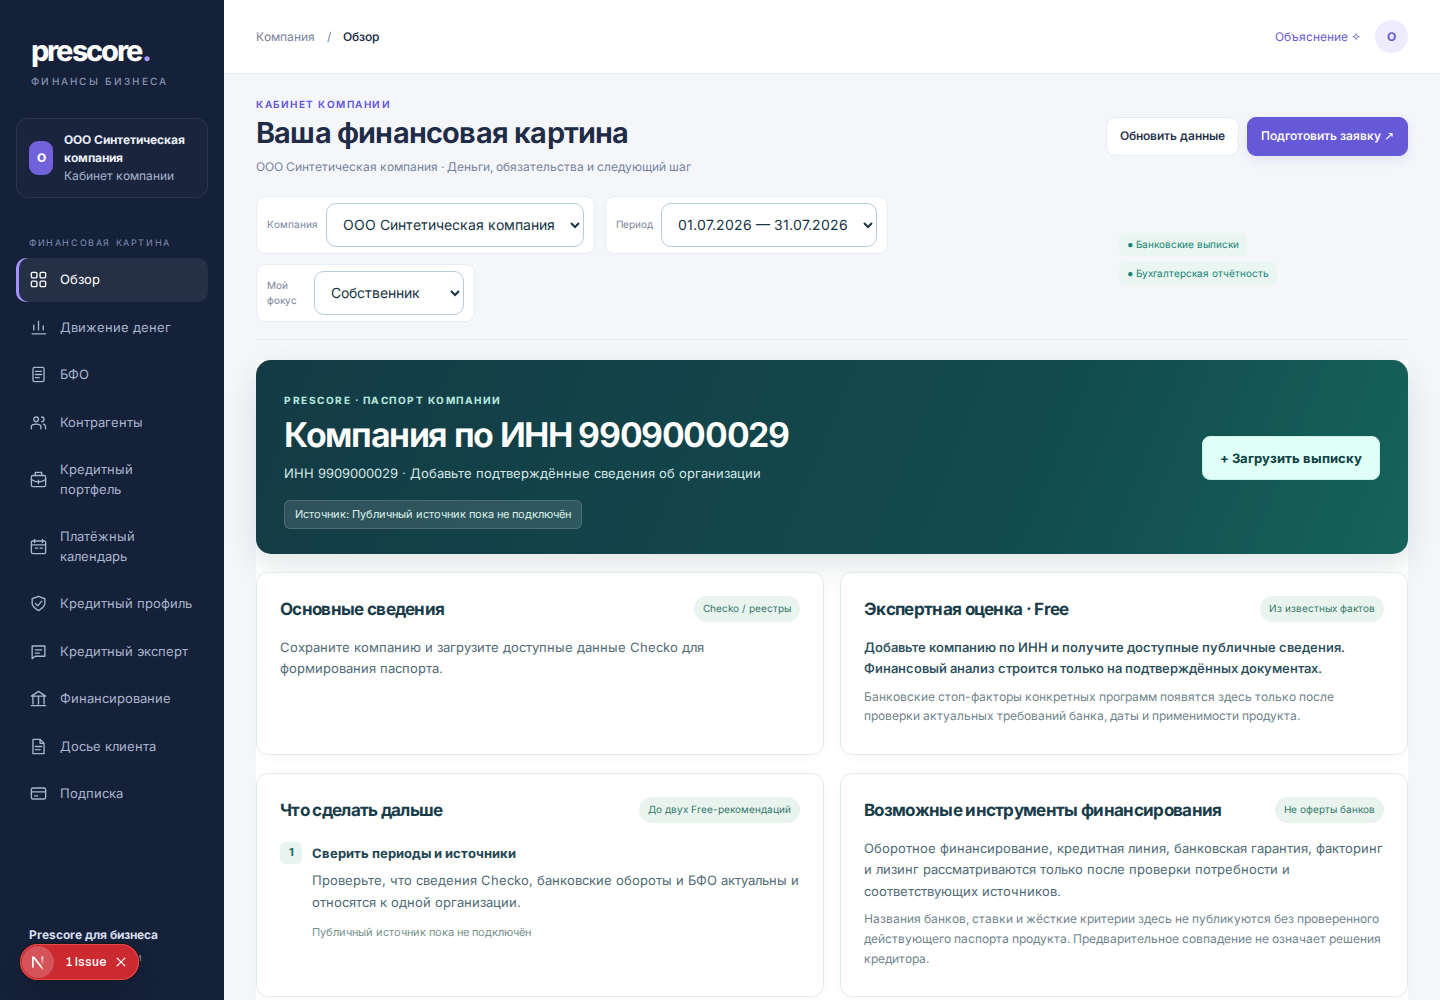
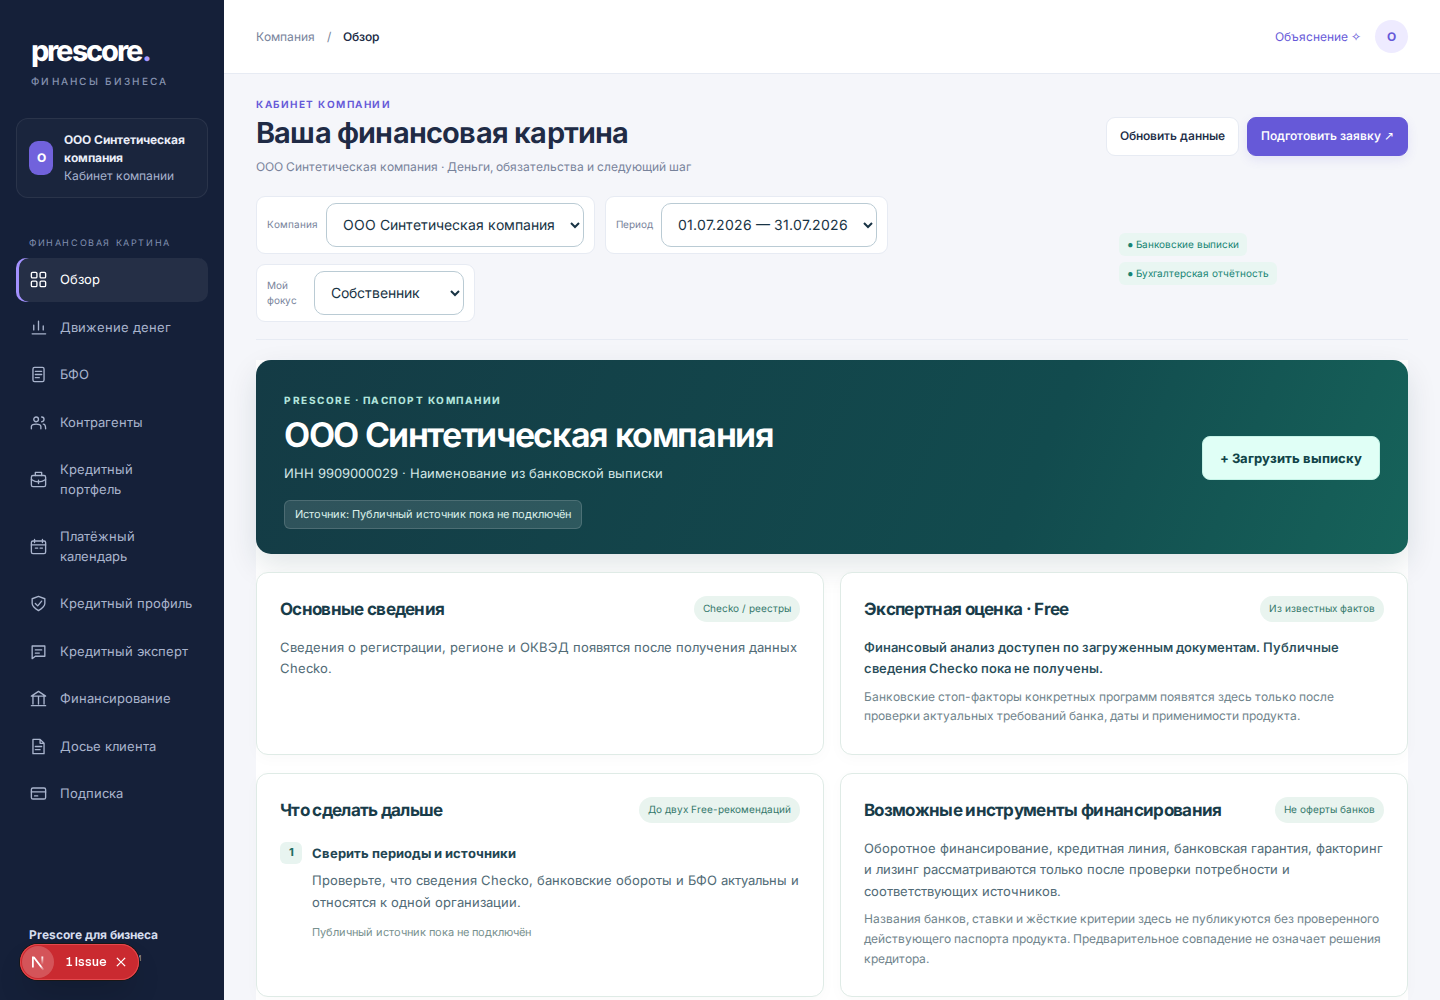
Show the saved statement identity in the dashboard passport [skip ci]

Changed region(s): [[0.1875, 0.403, 0.5625, 0.496], [0.5938, 0.62, 0.9375, 0.682], [0.1875, 0.62, 0.5312, 0.682]]

diff --git a/app/components/workspace/client-passport.tsx b/app/components/workspace/client-passport.tsx
@@ -5,16 +5,17 @@ import './client-passport.css';
 
 /** Existing dossier's public passport: no parallel profile, score or bank matcher. */
 export function CompanyPassport({
-  inn,profile,hasStatements,hasAnnual,full,onBankUpload,
+  inn,profile,hasStatements,hasAnnual,full,onBankUpload,dossier,
 }:{
   inn:string;
   profile:PassportPublicProfile|null;
+  dossier?:{statementCompanyName?:string};
   hasStatements:boolean;
   hasAnnual:boolean;
   full:boolean;
   onBankUpload:()=>void;
 }){
-  const passport=publicPassport(profile,inn,hasStatements,hasAnnual);
+  const passport=publicPassport(profile,inn,hasStatements,hasAnnual,dossier);
   const facts=[
     ['ОГРН',passport.company.ogrn],
     ['Дата регистрации',passport.company.registrationDate],
@@ -28,7 +29,7 @@ export function CompanyPassport({
       <div>
         <span className="pc-passport-eyebrow">PRESCORE · ПАСПОРТ КОМПАНИИ</span>
         <h2>{passport.company.title}</h2>
-        <p>ИНН {inn} · {profile?'Публичные сведения компании':'Добавьте подтверждённые сведения об организации'}</p>
+        <p>ИНН {inn} · {profile?'Публичные сведения компании':dossier?.statementCompanyName?'Наименование из банковской выписки':dossier?'Компания сохранена в досье':'Предварительный просмотр компании'}</p>
         <div className="pc-passport-tags">
           <span className="pc-passport-tag">Источник: {passport.source}</span>
           {passport.stale&&<span className="pc-passport-tag attention">Проверить актуальность сведений</span>}
@@ -41,7 +42,7 @@ export function CompanyPassport({
       <div className="pc-passport-section">
         <div className="pc-passport-section-title"><h3>Основные сведения</h3><span>Checko / реестры</span></div>
         {facts.length?<dl className="pc-passport-facts">{facts.map(([name,value])=><div key={name}><dt>{name}</dt><dd>{value}</dd></div>)}</dl>
-          :<p>Сохраните компанию и загрузите доступные данные Checko для формирования паспорта.</p>}
+          :<p>{dossier?'Сведения о регистрации, регионе и ОКВЭД появятся после получения данных Checko.':'Сохраните компанию, чтобы привязать источники к досье.'}</p>}
       </div>
       <div className="pc-passport-section">
         <div className="pc-passport-section-title"><h3>Экспертная оценка · Free</h3><span>Из известных фактов</span></div>

diff --git a/lib/workspace/public-passport.ts b/lib/workspace/public-passport.ts
@@ -27,7 +27,7 @@ export type PassportPublicProfile = {
 export type PassportAction = {title: string; detail: string; evidence: string};
 export type PassportAttention = {title: string; detail: string; evidence: string};
 
-export function publicPassport(profile: PassportPublicProfile | null, inn: string, hasStatements: boolean, hasAnnual: boolean) {
+export function publicPassport(profile: PassportPublicProfile | null, inn: string, hasStatements: boolean, hasAnnual: boolean, dossier?: {statementCompanyName?: string}) {
   const identity = profile?.company;
   const checkoDate = typeof profile?.fetchedAt === 'string' && /^\d{4}-\d{2}-\d{2}/.test(profile.fetchedAt)
     ? profile.fetchedAt.slice(0, 10) : null;
@@ -35,7 +35,7 @@ export function publicPassport(profile: PassportPublicProfile | null, inn: strin
   const fact = (value: unknown): string | null =>
     typeof value === 'string' && value.trim() ? value.trim() : null;
   const company = {
-    title: fact(identity?.name) ?? 'Компания по ИНН ' + inn,
+    title: fact(identity?.name) ?? fact(dossier?.statementCompanyName) ?? 'Компания по ИНН ' + inn,
     inn,
     ogrn: fact(identity?.ogrn),
     region: fact(identity?.region),
@@ -91,6 +91,7 @@ export function publicPassport(profile: PassportPublicProfile | null, inn: strin
       ? 'Публичные события требуют предметной проверки. Без банковских и бухгалтерских данных они не определяют кредитоспособность.'
       : profile
         ? 'Паспорт компании сформирован по доступным публичным сведениям. Финансовые выводы углубляются по мере добавления документов.'
+        : dossier ? (hasStatements || hasAnnual ? 'Финансовый анализ доступен по загруженным документам. Публичные сведения Checko пока не получены.' : 'Компания сохранена. Загрузите выписку или бухгалтерскую отчётность, чтобы начать финансовый анализ.')
         : 'Добавьте компанию по ИНН и получите доступные публичные сведения. Финансовый анализ строится только на подтверждённых документах.',
   };
 }

diff --git a/app/components/workspace/company-sources.tsx b/app/components/workspace/company-sources.tsx
@@ -196,7 +196,7 @@ export function CompanySources({view,id,bankInn,bank,openBank,onCompany,onSource
   </div>;
  }
 
- const passport=view==='home'&&(company||preview)?<CompanyPassport inn={company?.inn??inn} profile={company&&inn!==company.inn?(profile?.publicProfile??null):(preview??profile?.publicProfile??null)} hasStatements={(profile?.versions.length??0)>0} hasAnnual={!!profile?.financial?.history.some(p=>p.period.kind==='ANNUAL')} full={profile?.entitlement==='FULL'} onBankUpload={openBank}/>:null;
+ const passport=view==='home'&&(company||preview)?<CompanyPassport dossier={company?{statementCompanyName:profile?.versions[0]?.name}:undefined} inn={company?.inn??inn} profile={company&&inn!==company.inn?(profile?.publicProfile??null):(preview??profile?.publicProfile??null)} hasStatements={(profile?.versions.length??0)>0} hasAnnual={!!profile?.financial?.history.some(p=>p.period.kind==='ANNUAL')} full={profile?.entitlement==='FULL'} onBankUpload={openBank}/>:null;
  return <div className="ws pc-company-sources" aria-label="Источники компании">
  {company&&passport}
  {(!company||view==='home')&&<Panel title={view==='home'?'Выбрать или добавить компанию':'Компания по ИНН'}>
